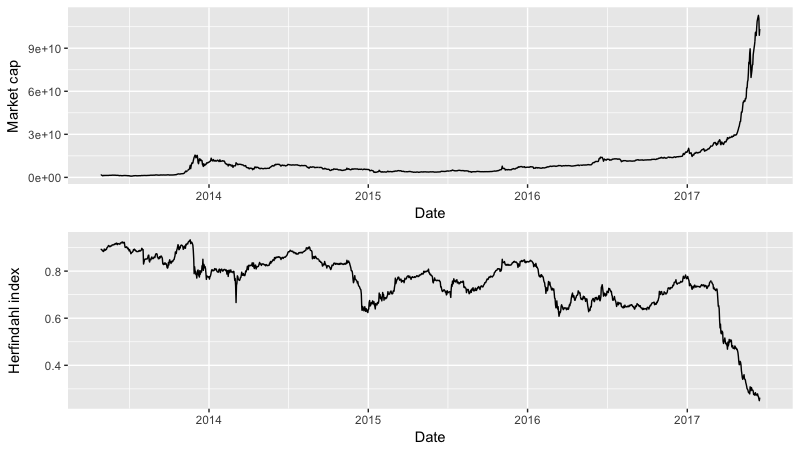
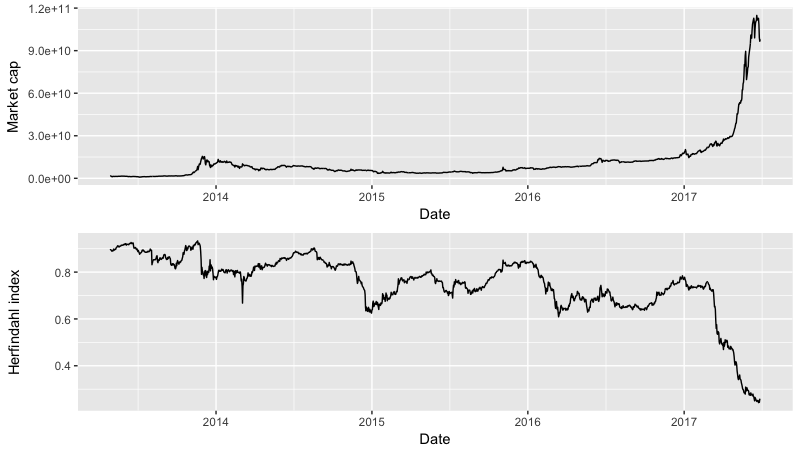
Updated with current data

diff --git a/README.md b/README.md
@@ -7,7 +7,7 @@ Especially in light of the increasing number of successful coins and [decreasing
 
 ## Progress
 
-*Data updated 16/06/2017; Improved market return calculation; Restricted some visualizations to data from 2017*
+*Data updated 28/06/2017; Improved market return calculation; Restricted some visualizations to data from 2017*
 
 This is a work in progress. Steps taken so far:
 
